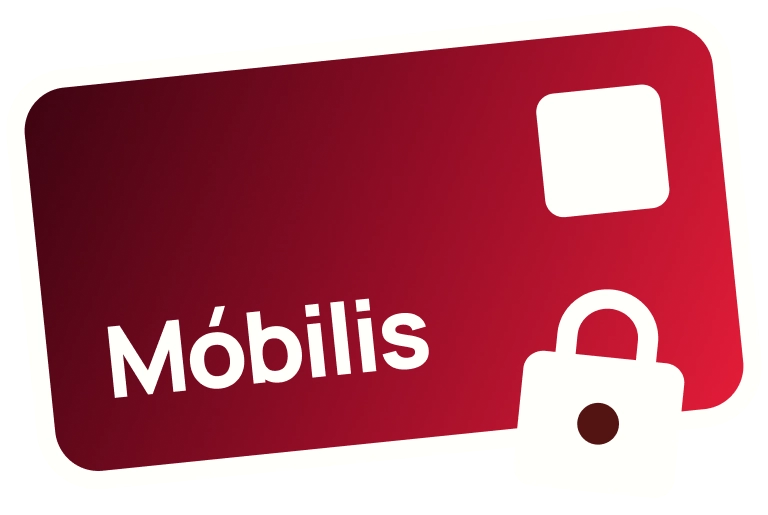
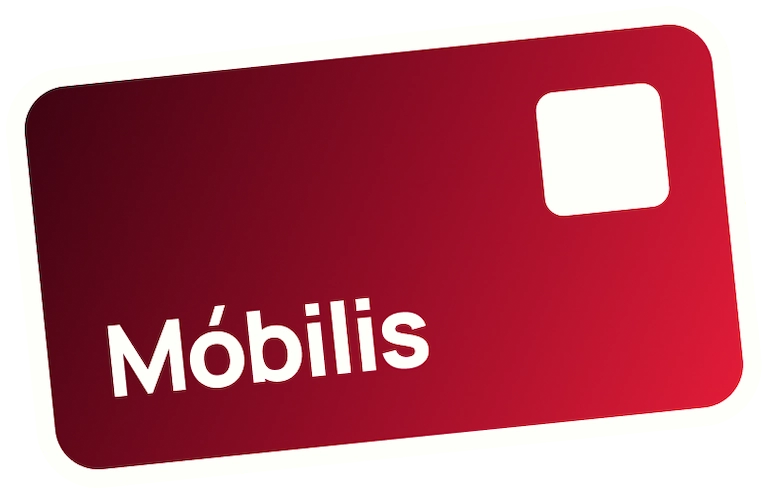
finished benefits component inside homepage, styles too

diff --git a/src/pages/home/Benefits/Benefits.tsx b/src/pages/home/Benefits/Benefits.tsx
@@ -1,0 +1,55 @@
+import { useTranslation } from 'react-i18next';
+import { useNavigate } from 'react-router-dom';
+import { Card } from '@/components/common/Card/Card';
+import { Button } from '@/components/common/Button/Button';
+import card_graphics from '@/assets/card_graphics.webp';
+import theme from './benefits.module.scss';
+import classNames from 'classnames/bind';
+import cn from 'classnames';
+
+const cx = classNames.bind(theme);
+
+export const Benefits = () => {
+  const { t } = useTranslation('benefits');
+
+  const navigate = useNavigate();
+
+  const handleNavigateToFAQ = () => {
+    navigate('/cards');
+  };
+  // Que no existe, pero da igual...
+
+  return (
+    <>
+      <header className={cx('benefits__header')}>
+        <div className={cn('header__gap')}>
+          <h3 className={cn('display-medium', 'text__color--onprimary')}>{t('header.title')}</h3>
+          <h2 className={cn('display-large', 'text__color--brand')}>{t('header.subtitle')}</h2>
+        </div>
+        <p className={cn('paragraph-small', 'text__wrap--balanced')}>{t('header.description')}</p>
+      </header>
+
+      <div className={cx('benefits__container')}>
+        <Card>
+          <h3 className={cn('display-medium')}>{t('benefits.unique')}</h3>
+          <p className={cn('paragraph-small', 'text__wrap--balanced')}>{t('benefits.uniqueText')}</p>
+        </Card>
+        <Card>
+          <h3 className={cn('display-medium')}>{t('benefits.prices')}</h3>
+          <p className={cn('paragraph-small', 'text__wrap--balanced')}>{t('benefits.pricesText')}</p>
+        </Card>
+        <Card>
+          <h3 className={cn('display-medium')}>{t('benefits.flexibility')}</h3>
+          <p className={cn('paragraph-small', 'text__wrap--balanced')}>{t('benefits.flexibilityText')}</p>
+        </Card>
+      </div>
+      <div className={cx('benefits__gradient')}>
+        <h3 className={cn('display-medium', 'text__color--brand')}>{t('footer.claim')}</h3>
+        <img className={cx('benefits__image')} alt={t('imageAlt')} src={card_graphics} />
+        <Button type="button" style="filled" color="onbrand" onClick={handleNavigateToFAQ}>
+          {t('footer.buttonText')}
+        </Button>
+      </div>
+    </>
+  );
+};

diff --git a/src/pages/home/Benefits/benefits.module.scss b/src/pages/home/Benefits/benefits.module.scss
@@ -1,0 +1,77 @@
+@use '../../../styles/mixins' as *;
+
+// CLASES DE BENEFITS
+@use '../../../styles/mixins' as *;
+
+// RIGHTS SECTION CLASSES
+
+@mixin tablet-large {
+  @media (min-width: 848px) {
+    @content;
+  }
+}
+
+@mixin desktop-large {
+  @media (min-width: 1700px) {
+    @content;
+  }
+}
+
+.benefits {
+  &__header {
+    display: flex;
+    flex-direction: column;
+    align-items: center;
+    justify-content: center;
+    gap: var(--gap-40);
+    padding: 0 var(--padding-20);
+  }
+
+  &__container {
+    display: flex;
+    flex-direction: row;
+    flex-wrap: wrap;
+    align-items: baseline;
+    justify-content: center;
+    gap: var(--gap-20);
+    padding: 0 var(--padding-20);
+
+    @include tablet-large {
+      & article {
+        align-self: stretch;
+      }
+    }
+  }
+
+  &__image {
+    max-width: 460px;
+    width: 100%;
+
+    @include mobile {
+      max-width: 350px;
+    }
+  }
+
+  &__gradient {
+    display: flex;
+    flex-direction: column;
+    gap: var(--gap-40);
+    align-items: center;
+    width: 100%;
+    background: linear-gradient(180deg, var(--white-100-main) 0%, var(--red-100) 50%, var(--red-300-main) 100%);
+    padding: var(--padding-80) var(--padding-20) var(--padding-120) var(--padding-20);
+
+    @include mobile {
+      padding: var(--padding-80) var(--padding-20) var(--padding-80) var(--padding-20);
+
+      & h3 {
+        font-size: var(--font-size-48);
+        line-height: var(--line-height-72);
+      }
+    }
+
+    @include tablet {
+      padding: var(--padding-80) var(--padding-20) var(--padding-80) var(--padding-20);
+    }
+  }
+}

diff --git a/src/components/common/Accordion/Accordion.tsx b/src/components/common/Accordion/Accordion.tsx
@@ -2,6 +2,7 @@ import { useState } from 'react';
 import { Icon } from '@/assets/icons/Icon';
 import theme from './accordion.module.scss';
 import classNames from 'classnames/bind';
+import cn from 'classnames';
 
 const cx = classNames.bind(theme);
 
@@ -33,9 +34,9 @@ export const Accordion = ({
 
   return (
     <>
-      <div className={wrapperClasses} onClick={() => setIsOpenAccordion(!isOpenAccordion)}>
+      <article className={wrapperClasses} onClick={() => setIsOpenAccordion(!isOpenAccordion)}>
         <button type="button" className={cx('accordion__button')}>
-          <h3 className={cx(textClassName)}>{text}</h3>
+          <h3 className={cn(textClassName)}>{text}</h3>
           <Icon
             icon="ChevronDown"
             color={variant === 'onprimary' ? 'onprimary-secondary' : 'onbrand'}
@@ -44,7 +45,7 @@ export const Accordion = ({
           />
         </button>
         {isOpenAccordion && children}
-      </div>
+      </article>
     </>
   );
 };

diff --git a/src/pages/home/HomePage.tsx b/src/pages/home/HomePage.tsx
@@ -9,6 +9,7 @@ import { TopUp } from '@/components/common/TopUp/TopUp';
 import { DoubleBlock } from '@/components/layout/DoubleBlock/DoubleBlock';
 import { FAQ } from '@/components/common/FAQ/FAQ';
 import { Rights } from '../usoNormas/Rights/Rights';
+import { Benefits } from './Benefits/Benefits';
 
 export const HomePage: React.FC = () => {
   const [isOpenModal, setIsOpenModal] = useState(false);
@@ -74,6 +75,9 @@ export const HomePage: React.FC = () => {
 
       <SingleBlock backgroundColor="light" isHorizontal={true}>
         <Rights />
+      </SingleBlock>
+      <SingleBlock backgroundColor="light" paddingSize="special">
+        <Benefits />
       </SingleBlock>
     </section>
   );

diff --git a/src/components/common/FAQ/FAQ.tsx b/src/components/common/FAQ/FAQ.tsx
@@ -44,7 +44,7 @@ export const FAQ = ({ questions, isAccordionVer = true }: FAQProps) => {
       </h2>
 
       {isAccordionVer ? (
-        <div className={cn('accordion__lastChild--border-bottom', cx(cx('faq__accordion-container')))}>
+        <div className={cn('accordion__lastChild--border-bottom', cx('faq__accordion-container'))}>
           {questions.map((item) => (
             <Accordion
               key={item.id}

diff --git a/src/i18n.ts b/src/i18n.ts
@@ -18,7 +18,7 @@ i18n
       loadPath: '/locales/{{lng}}/{{ns}}.json',
     },
 
-    ns: ['common', 'form', 'register', 'topUp', 'faq', 'rights'], //If you add more namespaces include them here.
+    ns: ['common', 'form', 'register', 'topUp', 'faq', 'rights', 'benefits'], //If you add more namespaces include them here.
     defaultNS: 'common',
   });
 

diff --git a/src/components/common/Register/Register.tsx b/src/components/common/Register/Register.tsx
@@ -2,7 +2,7 @@ import theme from './register.module.scss';
 import classNames from 'classnames/bind';
 import { useTranslation } from 'react-i18next';
 import { Button } from '../Button/Button';
-import card_graphics from '@/assets/card_graphics.webp';
+import card_graphics from '@/assets/card_graphics_lock.webp';
 
 const cx = classNames.bind(theme);
 

diff --git a/src/styles/utilities.scss b/src/styles/utilities.scss
@@ -206,7 +206,7 @@
   text-wrap: balance;
   width: 100%;
 
-  & div:last-child {
+  & article:last-child {
     border-bottom: var(--border-width-1) solid;
   }
 }
